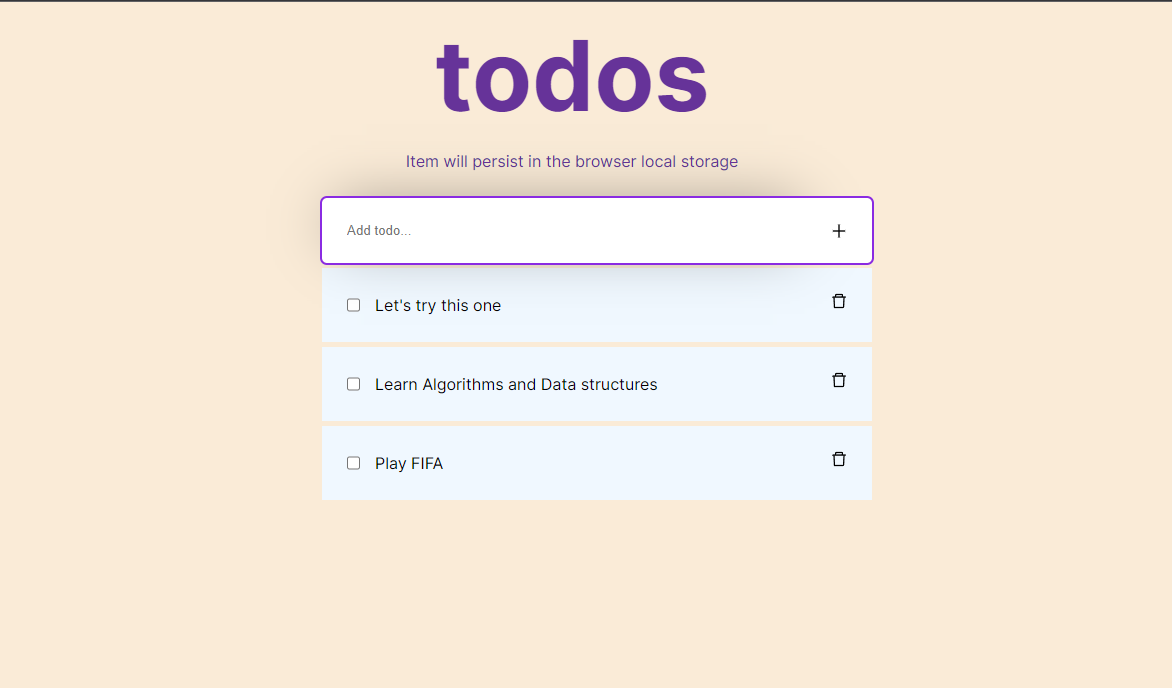
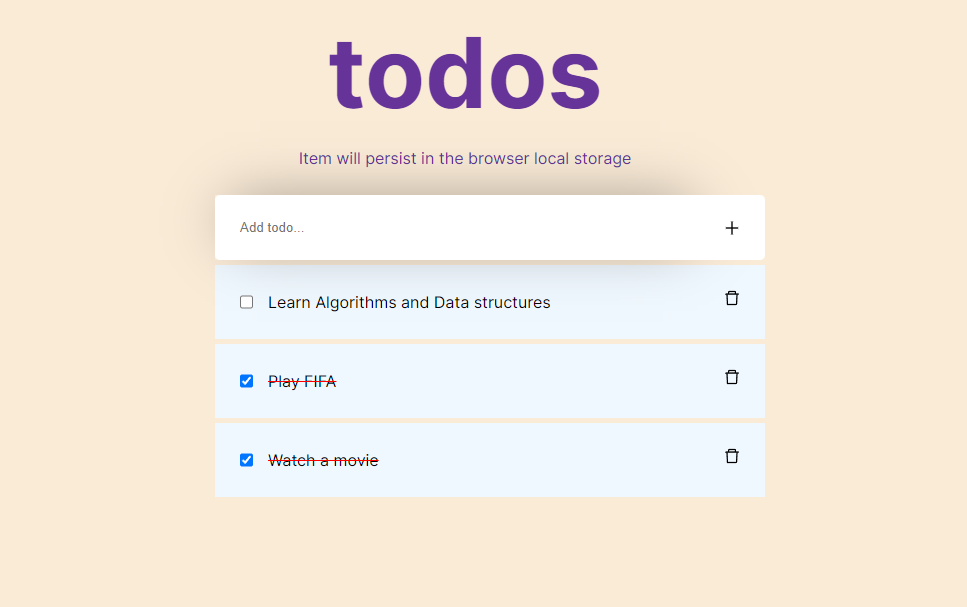
update screenshot

Changed region(s): [[0.2172, 0.2076, 0.8066, 0.8303], [0.3413, 0.0593, 0.6205, 0.1779], [0.0, 0.0, 1.0, 0.0297]]

diff --git a/src/components/Item/Item.jsx b/src/components/Item/Item.jsx
@@ -19,7 +19,7 @@ function Item({
     <div className={styles.container}>
       <div>
         <input type="checkbox" name="complete" id="complete" checked={isComplete} onChange={onChange} />
-        <p>{todo}</p>
+        <p className={isComplete && styles.line}>{todo}</p>
       </div>
       <DeleteOutlined className={styles.icon} onClick={onClick} />
     </div>

diff --git a/src/components/Item/Item.module.css b/src/components/Item/Item.module.css
@@ -18,3 +18,8 @@
 .icon {
   cursor: pointer;
 }
+
+.line {
+  text-decoration: line-through;
+  text-decoration-color: red;
+}
